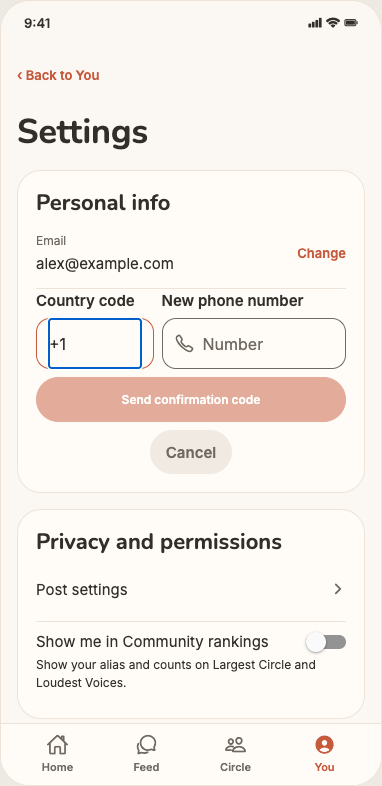
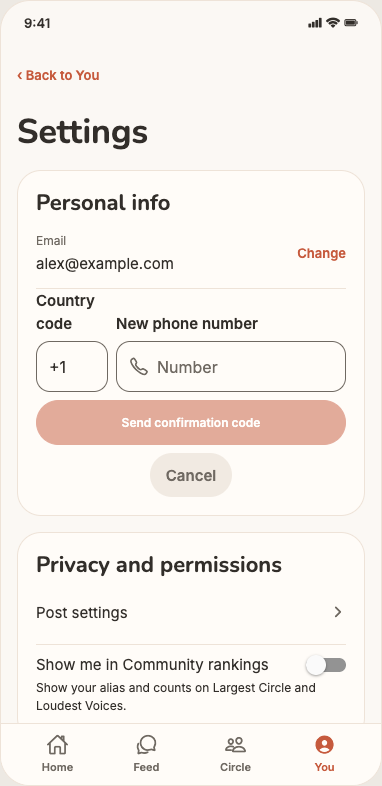
Size the country code box for a plus sign and three digits

Changed region(s): [[0.0864, 0.3664, 0.9215, 0.6107], [0.0864, 0.6718, 0.9215, 0.916]]

diff --git a/app/features/profile/components/PhoneChangeForm.tsx b/app/features/profile/components/PhoneChangeForm.tsx
@@ -1,5 +1,5 @@
 import { useState } from 'react';
-import { View } from 'react-native';
+import { useWindowDimensions, View } from 'react-native';
 import { parsePhoneNumberFromString } from 'libphonenumber-js/min';
 import { ActionButton, AppText } from '../../../components/ui/WidgetPrimitives';
 import { phoneFromFields } from '../../../services/contacts/phone';
@@ -15,6 +15,7 @@ type Props = {
 };
 
 export function PhoneChangeForm({ currentPhone, busy, onSend, onVerify, onCancel, onEdit }: Props) {
+  const { fontScale } = useWindowDimensions();
   const [callingCode, setCallingCode] = useState('+1');
   const [number, setNumber] = useState('');
   const [sentTo, setSentTo] = useState('');
@@ -49,8 +50,8 @@ export function PhoneChangeForm({ currentPhone, busy, onSend, onVerify, onCancel
   return (
     <View style={{ gap: 8 }}>
       <View style={{ flexDirection: 'row', flexWrap: 'wrap', gap: 8, alignItems: 'flex-end' }}>
-        <View style={{ flexBasis: 100, flexGrow: 1 }}>
-          <ContactField label="Country code" value={callingCode} placeholder="+1"
+        <View style={{ width: 28 + 44 * Math.max(1, fontScale) }}>
+          <ContactField label="Country code" value={callingCode} placeholder="+1" maxLength={4}
             keyboardType="phone-pad" editable={!busy}
             onChangeText={value => {
               clearCode();
@@ -58,7 +59,7 @@ export function PhoneChangeForm({ currentPhone, busy, onSend, onVerify, onCancel
               setCallingCode('+' + digits);
             }} />
         </View>
-        <View style={{ flexBasis: 132, flexGrow: 3 }}>
+        <View style={{ flexBasis: 132, flexGrow: 1 }}>
           <ContactField label={currentPhone ? 'New phone number' : 'Phone number'} icon="call-outline"
             value={number} placeholder="Number" keyboardType="phone-pad" autoComplete="tel-national"
             editable={!busy} onChangeText={changeNumber} />

diff --git a/docs/TESTING.md b/docs/TESTING.md
@@ -304,4 +304,4 @@ Owner tried very large accessibility text and reported an awkward appearance, ac
 ## Phone editor and staging Phase Guide, 2026-11-13
 
 - In the Settings component, a disposable account signed in on staging. Checked the +1 default, invalid input, a UK national number with its trunk prefix, the outgoing international number and Cancel/reopen. The browser intercepted the SMS request to simulate a delivery error. The account was removed. Real SMS delivery and an iOS walkthrough remain open. This Mac has no installed simulator runtime.
-- The Settings preview showed distinct bordered inputs at 320 and 390 px. The [phone editor capture](../design/2026-11-13/contact-settings/change-phone.png) shows the default +1. The preview passed international paste, resend, invalid and correct sample codes, unchanged-number validation and cancel at a 320 px width. All 210 app tests and native and preview type checks passed.
+- The Settings preview showed distinct bordered inputs at 320 and 390 px. The compact dialing-code box fits a plus sign and three digits. The [phone editor capture](../design/2026-11-13/contact-settings/change-phone.png) shows the default +1. The preview passed international paste, resend, invalid and correct sample codes, unchanged-number validation and cancel at a 320 px width. All 210 app tests and native and preview type checks passed.

diff --git a/docs/RELEASE_NOTES.md b/docs/RELEASE_NOTES.md
@@ -6,7 +6,7 @@ Changelog for this app's builds. Newest first. See [INSTRUCTIONS.md](INSTRUCTION
 
 ## Unreleased
 
-- **Email, phone and verification.** Settings and first-time setup use the same outlined fields and compact Cancel button for phone and email. The country code has its own editable box, initially +1, beside the national number. Members can send, resend and verify a confirmation code. [Phone editor preview](../design/2026-11-13/contact-settings/change-phone.png).
+- **Email, phone and verification.** Settings and first-time setup use the same outlined fields and compact Cancel button for phone and email. The country code has a compact, four-character box, initially +1. The national number fills the remaining width. Members can send, resend and verify a confirmation code. [Phone editor preview](../design/2026-11-13/contact-settings/change-phone.png).
 
 - The owner confirmed Phase Guide refresh on their production phone. The staging key is configured. Two fresh generation attempts returned HTTP 503, and the function logged OpenAI HTTP 429. [Staging setup](TROUBLESHOOTING.md#contact-verification-delivery-and-guidance-on-staging-2026-11-13).
 
